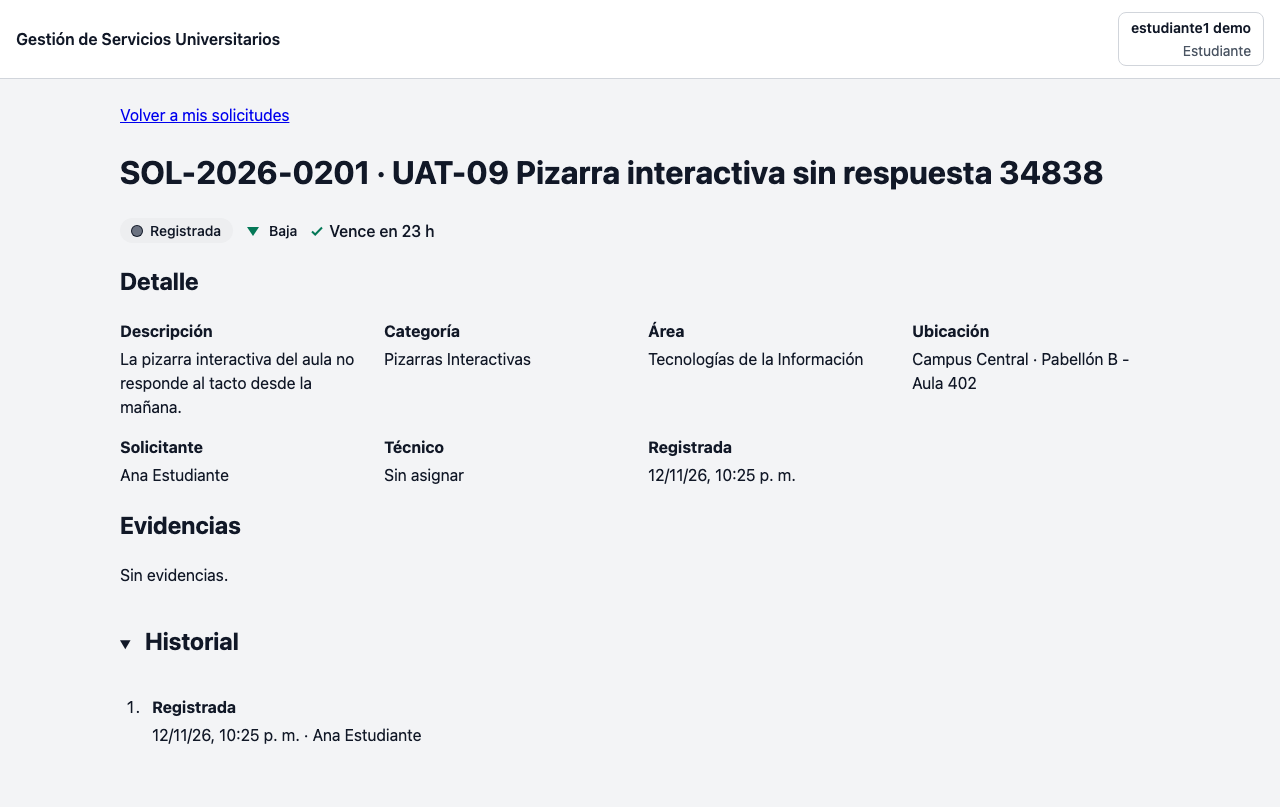
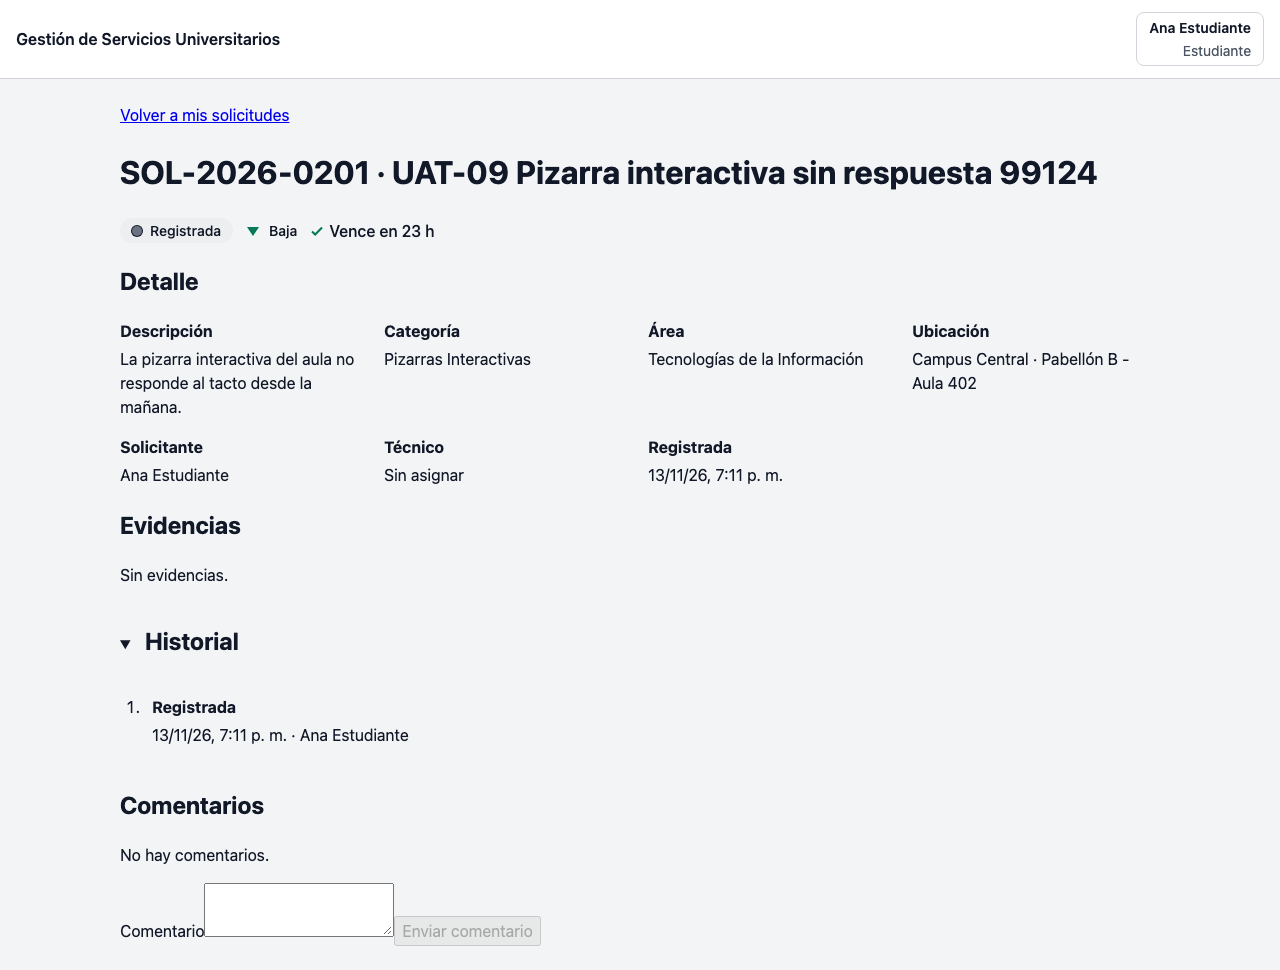
docs(qa): repetir UAT-09 y UAT-10 sin adaptar el login tras corregir BUG-01 (QA-20) (#403)
Segunda ejecución contra Compose local en el commit 689a5f1 (incluye #396), con ADAPTAR_LOGIN=0. El login funciona por la UI con los tres roles y las cifras de UAT-10 no cambian. GET /auth/me sigue devolviendo 500; el MTTR del periodo sigue sin poder comprobarse. El guion desactiva la adaptación por defecto (ADAPTAR_LOGIN=1 la reactiva).

diff --git a/docs/03-calidad-y-operacion/evidencia-uat-09-10.md b/docs/03-calidad-y-operacion/evidencia-uat-09-10.md
@@ -1,33 +1,33 @@
 # Evidencia de ejecución: UAT-09 y UAT-10 (QA-20, issue #181)
 
-Resultados de ejecutar **UAT-09** (administración de categorías, RF-09/RN-14) y **UAT-10** (dashboard del supervisor, RN-16) por la interfaz real, con capturas de cada paso. Las definiciones están en [`estrategia-pruebas.md`](estrategia-pruebas.md) (§ UAT) y los resultados que se daban por aprobados sin evidencia, en [`../INFORME_PRUEBAS.md`](../INFORME_PRUEBAS.md).
+Resultados de la **segunda ejecución, sin adaptar el login** (la primera, del 2026-11-12, necesitó una adaptación por BUG-01; ver §2), **UAT-09** (administración de categorías, RF-09/RN-14) y **UAT-10** (dashboard del supervisor, RN-16) por la interfaz real, con capturas de cada paso. Las definiciones están en [`estrategia-pruebas.md`](estrategia-pruebas.md) (§ UAT) y los resultados que se daban por aprobados sin evidencia, en [`../INFORME_PRUEBAS.md`](../INFORME_PRUEBAS.md).
 
 ## 1. Entorno
 
 | Elemento | Valor |
 | --- | --- |
-| Fecha de ejecución | 2026-11-12 |
-| Entorno | **Docker Compose local** (`docker-compose.yml`, proyecto aislado `uat181`; puerto 8088 → Nginx) |
-| Commit | `71f0425` (`develop`, merge del PR #395); el árbol solo añade esta evidencia |
+| Fecha de ejecución | 2026-11-13 (segunda ejecución, **sin adaptación del login**; la primera fue el 2026-11-12) |
+| Entorno | **Docker Compose local** (`docker-compose.yml` + override de nombres de contenedor, proyecto aislado `uat181b`; puerto 8088 → Nginx; imágenes reconstruidas con `--build`) |
+| Commit | `689a5f1` (`develop`, incluye el PR #396); el árbol solo añade esta evidencia |
 | Backend | perfil `demo` (`DemoDataSeeder`: 200 solicitudes de demostración), `DEMO_MODO=normal`, zona horaria `America/Lima` |
 | BD | MySQL 8.0 en volumen nuevo (reiniciado antes de la ejecución final para partir de datos limpios) |
 | Navegador | Chromium (Playwright), 1280×800, un contexto de navegador por usuario |
 | Usuarios | `admin.demo@`, `estudiante1.demo@`, `supervisor.demo@` (`@universidad.edu`); el supervisor pertenece al área *Tecnologías de la Información* |
-| Guion | [`evidencias/uat/uat-09-10.spec.mjs`](evidencias/uat/uat-09-10.spec.mjs) (no es dependencia del proyecto; ver la cabecera para ejecutarlo) |
+| Guion | `ADAPTAR_LOGIN=0`: [`evidencias/uat/uat-09-10.spec.mjs`](evidencias/uat/uat-09-10.spec.mjs) (no es dependencia del proyecto; ver la cabecera para ejecutarlo) |
 
 > **Por qué no es el «staging» de Vercel.** La URL de Vercel (`frontend-servicios-2o4nr29q3.vercel.app`) solo sirve el frontend estático: `/api/v1` responde 404 porque no hay backend desplegado. Un UAT necesita el sistema integrado, así que se usó Compose local, que el DoD del equipo acepta como alternativa a staging.
 
-## 2. Hallazgo bloqueante previo: BUG-01 (login contra el backend real)
+## 2. BUG-01 (login contra el backend real): resuelto en #396
 
 | | |
 | --- | --- |
-| Qué pasa | `POST /auth/login` del backend responde un cuerpo plano `{token, tipo, correo, rol: "ROLE_X", idArea}`. El frontend (`AuthContext`) y [`api-rest.md` §3.1](../02-diseno/api-rest.md) esperan `{token, usuario: {id, nombre, apellido, correo, rol: "X", idArea}}`. |
-| Efecto | La sesión no se establece: la UI navega a `/mis-solicitudes` y vuelve a `/login` sin mensaje. **Con el stack real nadie puede entrar por la interfaz.** |
-| Evidencia | ![Login sin sesión](evidencias/uat/00-bug01-login-sin-sesion.png) |
-| Relacionado | `GET /auth/me` (listado en api-rest §3.1) no existe: Spring responde `NoResourceFoundException` y `GlobalExceptionHandler` lo devuelve como **500** en lugar de 404. |
-| Severidad | Alta (bloquea el uso integrado). No hay issue abierto: **pendiente de crear**. |
+| Historia | El 2026-11-12 `POST /auth/login` respondía un cuerpo plano `{token, tipo, correo, rol: "ROLE_X", idArea}` y el frontend esperaba `{token, usuario: {...}}` ([`api-rest.md` §3.1](../02-diseno/api-rest.md)): la UI volvía a `/login` sin mensaje y nadie podía entrar. Esa primera ejecución solo pudo avanzar adaptando la respuesta con un interceptor de Playwright. |
+| Corrección | PR #396 «fix(auth): devolver perfil completo en la sesión». |
+| Verificación (2026-11-13) | Con el commit `689a5f1`, `POST /auth/login` devuelve ahora `usuario: {id, nombre, apellido, correo, rol: "SUPERVISOR", idArea}` (además de los campos planos anteriores) y el guion con `ADAPTAR_LOGIN=0` inicia sesión por la UI con admin, estudiante y supervisor. |
+| Captura histórica | ![Login sin sesión (fallo previo a #396)](evidencias/uat/00-bug01-login-sin-sesion.png) *Captura del 2026-11-12, antes de la corrección; se conserva solo como referencia.* |
+| `GET /auth/me` | **Sigue sin existir y devuelve 500** (verificado con un JWT válido): Spring lanza `NoResourceFoundException` y `GlobalExceptionHandler` lo traduce a 500 en lugar de 404. Ningún flujo de la UI lo usa. Pendiente de issue. |
 
-**Cómo se pudo continuar.** El guion intercepta solo la respuesta de `POST /auth/login` y la reescribe al contrato documentado (`usuario` con el rol sin prefijo `ROLE_`; nombre y apellido salen del correo). El JWT, la autenticación y **todos los demás endpoints son los reales**. Ejecutar el guion con `ADAPTAR_LOGIN=0` reproduce el fallo. Por esto, las filas «Login» de las tablas siguientes quedan marcadas con ⚠ y no con ✅.
+Nota de entorno: la primera prueba de esta ejecución falló con 403 en el login desde el navegador porque `ALLOWED_ORIGINS` del backend no incluía `http://localhost:8088` (CORS). No es un fallo del producto: se configuró `ALLOWED_ORIGINS=http://localhost:8088` y se repitió desde cero.
 
 ## 3. UAT-09 — Categoría «Pizarras Interactivas»
 
@@ -35,7 +35,7 @@ Criterio: el administrador crea la categoría y el estudiante la ve en el formul
 
 | # | Paso | Esperado | Obtenido | Estado |
 | --- | --- | --- | --- | --- |
-| 0 | Login de admin y estudiante | Sesión iniciada | Solo con la adaptación de BUG-01 (§2) | ⚠ |
+| 0 | Login de admin y estudiante | Sesión iniciada | Sesión iniciada por la UI sin adaptación (BUG-01 resuelto, §2) | ✅ |
 | 1 | Admin abre *Administración de categorías* | Listado con 6 categorías activas | Electricidad, Equipos de Cómputo, Limpieza e Higiene, Mobiliario, Redes y Wi-Fi, Soporte de Software | ✅ |
 | 2 | Admin crea «Pizarras Interactivas» (área TI, SLA 24 h) | Aviso de creación y fila nueva | Aviso «Categoría «Pizarras Interactivas» creada.» y fila *Activa* | ✅ |
 | 3 | Estudiante abre *Nueva solicitud* | La categoría aparece en el selector | Opciones: las 6 anteriores **más** «Pizarras Interactivas» | ✅ |
@@ -64,13 +64,13 @@ Nota: en las capturas 3 y 6 el selector se despliega como lista (`size`) solo pa
 
 Criterio: el supervisor revisa el dashboard filtrado por fechas; las cifras son coherentes con la bandeja y solo ve su área.
 
-**Rango usado:** del 01/01/2026 al 13/11/2026 (contiene todos los datos de demostración). Sin filtro, el dashboard muestra los últimos 30 días (42 solicitudes).
+**Rango usado:** del 01/01/2026 al 14/11/2026 (contiene todos los datos de demostración; el 14/11 es la fecha en UTC del equipo al ejecutar, la primera ejecución usó 13/11). Las cifras coinciden con las de la primera ejecución. Sin filtro, el dashboard muestra los últimos 30 días (42 solicitudes).
 
 | # | Paso | Esperado | Obtenido | Estado |
 | --- | --- | --- | --- | --- |
-| 0 | Login del supervisor | Sesión iniciada | Solo con la adaptación de BUG-01 (§2) | ⚠ |
+| 0 | Login del supervisor | Sesión iniciada | Sesión iniciada por la UI sin adaptación (BUG-01 resuelto, §2) | ✅ |
 | 1 | Abrir *Dashboard* sin filtro | «Mostrando: últimos 30 días» | Registradas 42, Pendientes 42, Vencidas 39 | ✅ |
-| 2 | Filtrar Desde 01/01/2026, Hasta 13/11/2026 y *Aplicar* | Rango visible y cifras recalculadas | «Mostrando: del 01/01/2026 al 13/11/2026»; Registradas 102, Pendientes 102, Atendidas 0, Vencidas 99 | ✅ |
+| 2 | Filtrar Desde 01/01/2026, Hasta 14/11/2026 y *Aplicar* | Rango visible y cifras recalculadas | «Mostrando: del 01/01/2026 al 14/11/2026»; Registradas 102, Pendientes 102, Atendidas 0, Vencidas 99 | ✅ |
 | 3 | Bandeja → *Todas* | Total igual a *Registradas* | **102 registros** | ✅ |
 | 4 | Bandeja por pestañas | Suma = *Pendientes*; *Resueltas* = *Atendidas* | Por asignar 69 + En curso 33 = **102**; Resueltas **0** | ✅ |
 | 5 | Bandeja → *Todas* + «Solo vencidas» | Igual a *Vencidas* | **99 registros** | ✅ |
@@ -107,8 +107,8 @@ Capturas:
 
 | UAT | Resultado | Detalle |
 | --- | --- | --- |
-| **UAT-09** | ✅ **Aprobado en lo funcional**, ⚠ con reserva | Los 7 pasos de negocio pasan por la UI real y RN-14 se cumple (la categoría desaparece del formulario y la solicitud existente conserva el nombre). La reserva es BUG-01: para iniciar sesión hubo que adaptar la respuesta del login. |
-| **UAT-10** | ✅ **Aprobado en lo funcional**, ⚠ con reservas | Cifras del dashboard coherentes con la bandeja y acotadas al área (RN-16). Reservas: BUG-01; el MTTR del periodo no se pudo comprobar (paso 9); la bandeja no permite contrastar por fechas (paso 10). |
-| Precondición | ❌ BUG-01 | Con el stack real, el login por la UI falla. Hasta corregirlo, el sistema integrado no es utilizable y los UAT-01 a UAT-10 no pueden repetirse sin la adaptación. |
+| **UAT-09** | ✅ **Aprobado** | Los 7 pasos de negocio y el login pasan por la UI real, **sin adaptar ninguna respuesta**; RN-14 se cumple (la categoría desaparece del formulario y la solicitud existente, `SOL-2026-0201`, conserva el nombre). |
+| **UAT-10** | ✅ **Aprobado en lo funcional**, ⚠ con reservas | Cifras del dashboard coherentes con la bandeja y acotadas al área (RN-16), idénticas a la primera ejecución. Reservas: el MTTR del periodo sigue sin poder comprobarse (paso 9: la demo no tiene solicitudes resueltas en TI) y la bandeja no permite contrastar por fechas (paso 10). |
+| Precondición | ✅ BUG-01 resuelto (#396) | El login por la UI funciona con el stack real. Queda `GET /auth/me` → 500 (§2), que no bloquea estos UAT. |
 
-Limitaciones: ejecución única, un navegador (Chromium), datos de demostración y entorno local, no staging real; no se midió accesibilidad ni rendimiento.
+Limitaciones: dos ejecuciones, un navegador (Chromium), datos de demostración y entorno local, no staging real; no se midió accesibilidad ni rendimiento. UAT-01 a UAT-08 no se repitieron.

diff --git a/docs/04-gestion/ia-registro/r5-frontend-2.md b/docs/04-gestion/ia-registro/r5-frontend-2.md
@@ -35,3 +35,4 @@
 | **R5-23** | Claude Code (Claude Sonnet 5.5, subagente de un orquestador) | *"Implementar el issue #150 (ADM-21, TC-026): pruebas a nivel de frontend (MSW) de que una categoría desactivada desaparece del formulario de nueva solicitud pero sigue en las solicitudes existentes; corregir código solo si las pruebas revelan un hueco; no construir UI de otros issues."* | Rama `feature/ADM-150-baja-logica-categoria` (base `feature/ADM-147-areas`). Solo pruebas: `CategoriasBajaLogica.test.jsx` (5 pruebas) que usan la pantalla de categorías (#147) y los *handlers* MSW con estado compartidos con `NuevaSolicitudPage` y `MisSolicitudesPage`: baja → la opción desaparece del formulario; reactivar → vuelve; el historial propio (`mis-solicitudes`) conserva `categoriaNombre` y las 20 filas; el admin sigue viendo la inactiva con "Mostrar inactivas"; alta y baja de "Pizarras Interactivas" (UAT-09). | **Sí** | Las pruebas pasaron porque el código ya cumplía (no hubo ciclo rojo→verde sobre código de producción). Tras la revisión, el historial (`mis-solicitudes`) resuelve `categoriaNombre` desde el estado de las categorías en el *handler*, y se comprobó que las pruebas detectan tres regresiones del *handler* de baja (se restauró cada vez): que borre la categoría (fallan 3 de 5), que la renombre (fallan 2) y que no haga nada (fallan 3). `lint`, `format:check`, `test` y `build` en **Node 22.15.1**. **Lo que NO queda probado:** (1) que `MisSolicitudesPage` muestre la categoría: esa pantalla no tiene columna de categoría ni existe el detalle, así que la retención del histórico se prueba en la capa de datos (el resumen sigue trayendo `categoriaNombre`) y en que el listado no filtra; (2) el comportamiento real del backend (`mis-solicitudes` con una categoría inactiva): el *handler* MSW emula el JOIN, no es el JOIN real. `CatalogoControllerTest` existe pero **no** tiene una prueba `desactivarCategoria`: la cita de `docs/INFORME_PRUEBAS.md` (fila CA-26) apunta a una prueba que no existe (informe de otro integrante, no se editó). **Hueco encontrado, sin corregir:** el filtro "Categoría" de la bandeja del supervisor (`useCatalogosBandeja` → `GET /categorias`, solo activas) deja de ofrecer una categoría desactivada aunque haya solicitudes que la usan; requiere que el backend permita `incluirInactivos` fuera de ADMIN o un endpoint propio. **Revisión humana del integrante: pendiente antes del merge.** | 0 cambios manuales hasta ahora | R5 · Andre Cuenca | 2026-11-07 |
 | **R5-24** | Claude Code (Claude Sonnet 5.5, subagente de un orquestador) | *"Implementar el issue #149 (ADM-20, CA-1): invalidar catálogos tras un cambio del administrador para el formulario de solicitud y el dashboard. Decisión del orquestador: si no hay caché real, no construir una solo para invalidarla; probar que el cambio se ve de inmediato."* | Rama `feature/ADM-149-cache-catalogos` (base `feature/ADM-150-baja-logica-categoria`). Revisión de `components/ui/catalogos.js` (solo etiquetas y colores, sin datos memorizados), `useCatalogosBandeja`, `NuevaSolicitudPage` y `useAreas`: ninguno guarda datos entre montajes, todos piden el catálogo al montarse, así que **no hay nada que invalidar** y no se añadió código de producción. `CatalogosAlInstante.test.jsx` (4 pruebas): categoría creada → aparece en el formulario de solicitud; categoría desactivada → desaparece de los filtros de la bandeja; área creada desde `AreasPage` → aparece en `useAreas`; área desactivada → deja de ofrecerse. | **Sí** | Las pruebas pasaron al primer intento (el comportamiento ya existe; no hay ciclo rojo→verde). `lint`, `format:check`, `test` y `build` en **Node 22.15.1**. **Desviación del issue:** ADM-20 pide «invalidar» catálogos; se reemplazó a propósito por *fetch-on-mount* porque no existe caché que invalidar y crear una solo para invalidarla añadiría código y riesgo de datos viejos. **Conflicto con el diseño:** api-rest (línea 387) prevé aprovechar cabeceras HTTP y el proxy Nginx para la caché de `/categorias` y `/prioridades`; eso rompería CA-1 (el navegador o el proxy servirían el catálogo anterior), así que el backend y la infraestructura deben enviar `Cache-Control: no-cache` (o equivalente) en los endpoints de catálogos. **Límite:** el cambio se ve cuando la pantalla consumidora se monta o vuelve a pedir; si en el futuro una pantalla mantuviera datos en memoria (caché, SWR) mientras el administrador edita, habría que invalidar entonces. Hoy el administrador y los consumidores viven en rutas distintas, así que no coexisten montados. No se probó contra el backend real (el CRUD no existe) ni con navegador. **Revisión humana del integrante: pendiente antes del merge.** | 0 cambios manuales hasta ahora | R5 · Andre Cuenca | 2026-11-07 |
 | **R5-29** | Claude Code (Claude Sonnet 5.5, subagente de un orquestador) | *"Implementar el issue #181 (QA-20): ejecutar UAT-09 y UAT-10 con capturas y una tabla de resultados. El «staging» de Vercel no tiene backend, así que levantar el stack con Docker Compose local (perfil `demo`) y ejecutar los pasos por la UI con Playwright; informar con honestidad si algo falla."* | Rama `feature/QA-20-uat-09-10`: `docs/03-calidad-y-operacion/evidencia-uat-09-10.md` (entorno, tablas de pasos con esperado/obtenido/estado y resultado final), 20 capturas PNG y el guion `uat-09-10.spec.mjs` en `docs/03-calidad-y-operacion/evidencias/uat/`, y enlaces desde las filas UAT-09/UAT-10 de `docs/INFORME_PRUEBAS.md`. | **Sí** | Se ejecutó el guion completo contra el stack Compose local (commit `71f0425`, 2026-11-12) y las capturas son de esa ejecución. **Hallazgo:** el login del backend no cumple api-rest §3.1 (devuelve `{token, tipo, correo, rol: "ROLE_X", idArea}` sin `usuario`), así que la UI no puede iniciar sesión contra el backend real; para continuar, el guion adapta solo esa respuesta (interceptor de Playwright) y queda marcado con ⚠ en la evidencia. `GET /auth/me` no existe y se devuelve como 500. **No se comprobó:** el MTTR del periodo (el área TI de la demo no tiene solicitudes resueltas), la comparación bandeja/dashboard por fechas (la bandeja no filtra por fecha), otros navegadores, ni el staging real. No se crearon issues para los hallazgos. **Revisión humana del integrante: pendiente antes del merge.** | 0 cambios manuales hasta ahora | R5 · Andre Cuenca | 2026-11-12 |
+| **R5-30** | Claude Code (Claude Sonnet 5.5, subagente de un orquestador) | *"Repetir UAT-09 y UAT-10 sin la adaptación del login (BUG-01 ya corregido en #396), actualizar la evidencia y abrir un PR a develop; no inventar aprobaciones."* | Rama `docs/QA-20-uat-sin-adaptacion-login`: nueva ejecución del guion con `ADAPTAR_LOGIN=0` contra Compose local (proyecto `uat181b`, commit `689a5f1`, 2026-11-13), capturas regeneradas, `evidencia-uat-09-10.md` reescrito (§2 «BUG-01 resuelto en #396», filas de login ⚠→✅, resultado final), guion con adaptación desactivada por defecto (`ADAPTAR_LOGIN=1` la reactiva) y notas en `INFORME_PRUEBAS.md`. | **Sí** | Login por la UI sin adaptar con los tres roles; cifras de UAT-10 idénticas a la primera ejecución (rango hasta 14/11 por la fecha UTC del equipo). Un primer intento falló con 403 por CORS (`ALLOWED_ORIGINS` sin el puerto 8088), error de configuración mío y no del producto. `GET /auth/me` sigue devolviendo 500. **No se comprobó:** MTTR del periodo (sin resueltas en TI), bandeja por fechas, otros navegadores, staging real, UAT-01 a UAT-08. **Revisión humana del integrante: pendiente antes del merge.** | 0 cambios manuales hasta ahora | R5 · Andre Cuenca | 2026-11-13 |

diff --git a/docs/INFORME_PRUEBAS.md b/docs/INFORME_PRUEBAS.md
@@ -228,8 +228,8 @@ Las pruebas de aceptación fueron ejecutadas en el ambiente de _staging_ siguien
 | **UAT-04** | Supervisor    | Evaluación de ticket registrado, cambio de prioridad a ALTA y asignación de técnico de soporte TI.                                  | Estado avanza a `ASIGNADA`; técnico asignado visualiza el ticket en su bandeja.                                                     | Asignación inmediata; historial registra evaluación y asignación en 2 eventos.                | ✅ Aprobado |
 | **UAT-05** | Técnico       | Apertura de bandeja, transición a `EN_ATENCION`, redacción de informe de solución y adjunto de evidencia fotográfica de reparación. | Estado avanza a `RESUELTA`; campos de informe y evidencia guardados en base de datos.                                               | Transición fluida; informe visible en modal; estudiante recibe notificación visual.           | ✅ Aprobado |
 | **UAT-06** | Estudiante    | Apertura de solicitud resuelta, validación de la solución y marcado de conformidad final.                                           | Estado avanza a `CERRADA`; solicitud finalizada; cómputo actualizado en dashboard.                                                  | Botón "Conforme" cierra ticket; línea de tiempo finaliza con check verde.                     | ✅ Aprobado |
-| **UAT-09** | Administrador | Creación de nueva categoría "Pizarras Interactivas", verificación en formulario de solicitud, posterior desactivación lógica.       | Categoría disponible tras creación; desaparece del selector de nuevas solicitudes tras desactivación sin alterar registros previos. | RF-09 y RN-14 verificadas; tickets antiguos conservan el nombre histórico.                    | ✅ Aprobado (funcional; ver [evidencia con capturas](03-calidad-y-operacion/evidencia-uat-09-10.md#3-uat-09--categoría-pizarras-interactivas)) |
-| **UAT-10** | Supervisor    | Aplicación de filtro temporal en dashboard institucional del área de TI.                                                            | Las tarjetas de KPI reflejan exactamente las solicitudes y MTTR del periodo filtrado sin contaminar datos de Mantenimiento.         | Aislamiento verificado; gráficas de Recharts renderizan métricas consistentes con la bandeja. | ✅ Aprobado (funcional; MTTR del periodo no comprobado; ver [evidencia con capturas](03-calidad-y-operacion/evidencia-uat-09-10.md#4-uat-10--dashboard-del-supervisor)) |
+| **UAT-09** | Administrador | Creación de nueva categoría "Pizarras Interactivas", verificación en formulario de solicitud, posterior desactivación lógica.       | Categoría disponible tras creación; desaparece del selector de nuevas solicitudes tras desactivación sin alterar registros previos. | RF-09 y RN-14 verificadas; tickets antiguos conservan el nombre histórico.                    | ✅ Aprobado (login sin adaptación tras #396; ver [evidencia con capturas](03-calidad-y-operacion/evidencia-uat-09-10.md#3-uat-09--categoría-pizarras-interactivas)) |
+| **UAT-10** | Supervisor    | Aplicación de filtro temporal en dashboard institucional del área de TI.                                                            | Las tarjetas de KPI reflejan exactamente las solicitudes y MTTR del periodo filtrado sin contaminar datos de Mantenimiento.         | Aislamiento verificado; gráficas de Recharts renderizan métricas consistentes con la bandeja. | ✅ Aprobado (funcional, login sin adaptación tras #396; MTTR del periodo no comprobado; ver [evidencia con capturas](03-calidad-y-operacion/evidencia-uat-09-10.md#4-uat-10--dashboard-del-supervisor)) |
 
 ---
 
